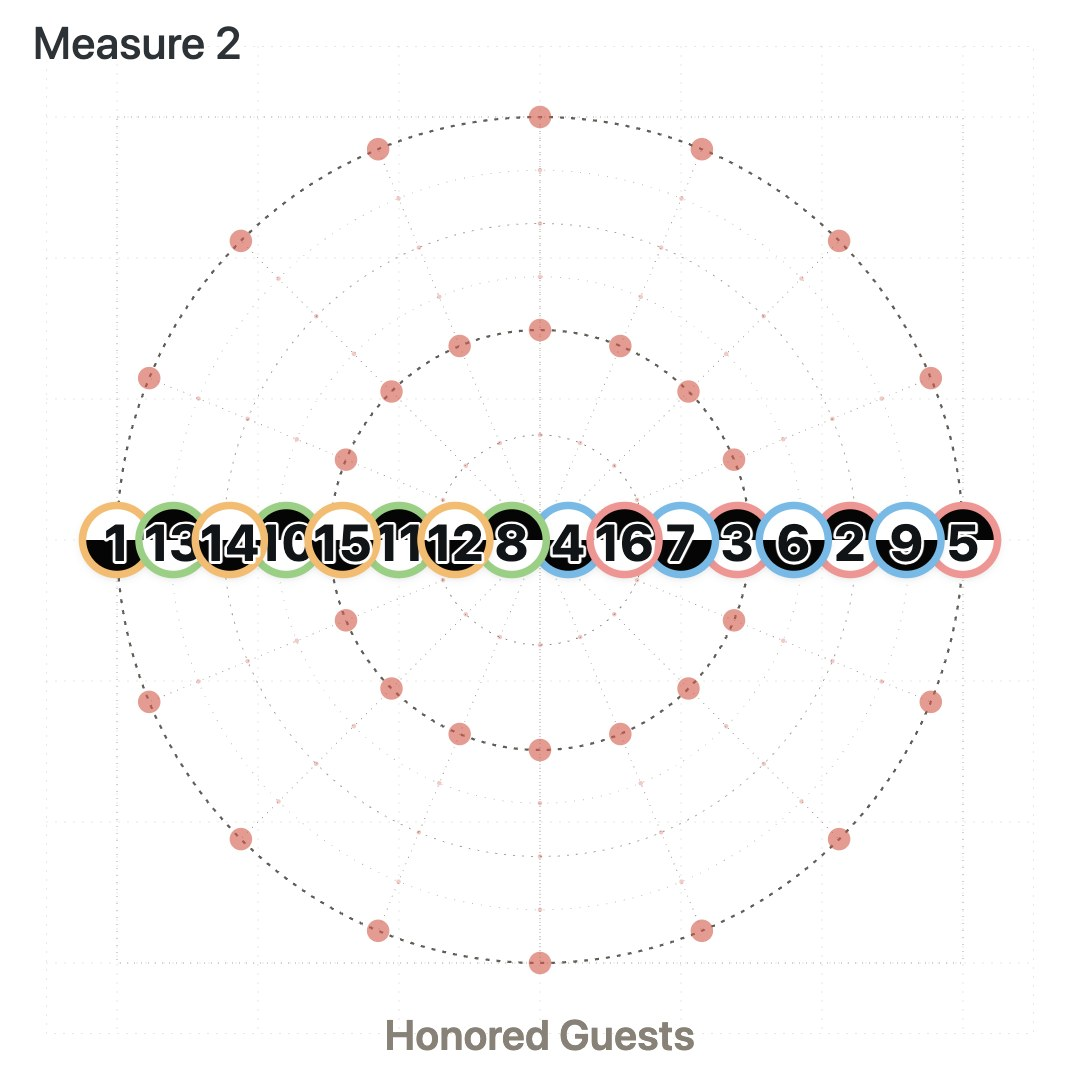
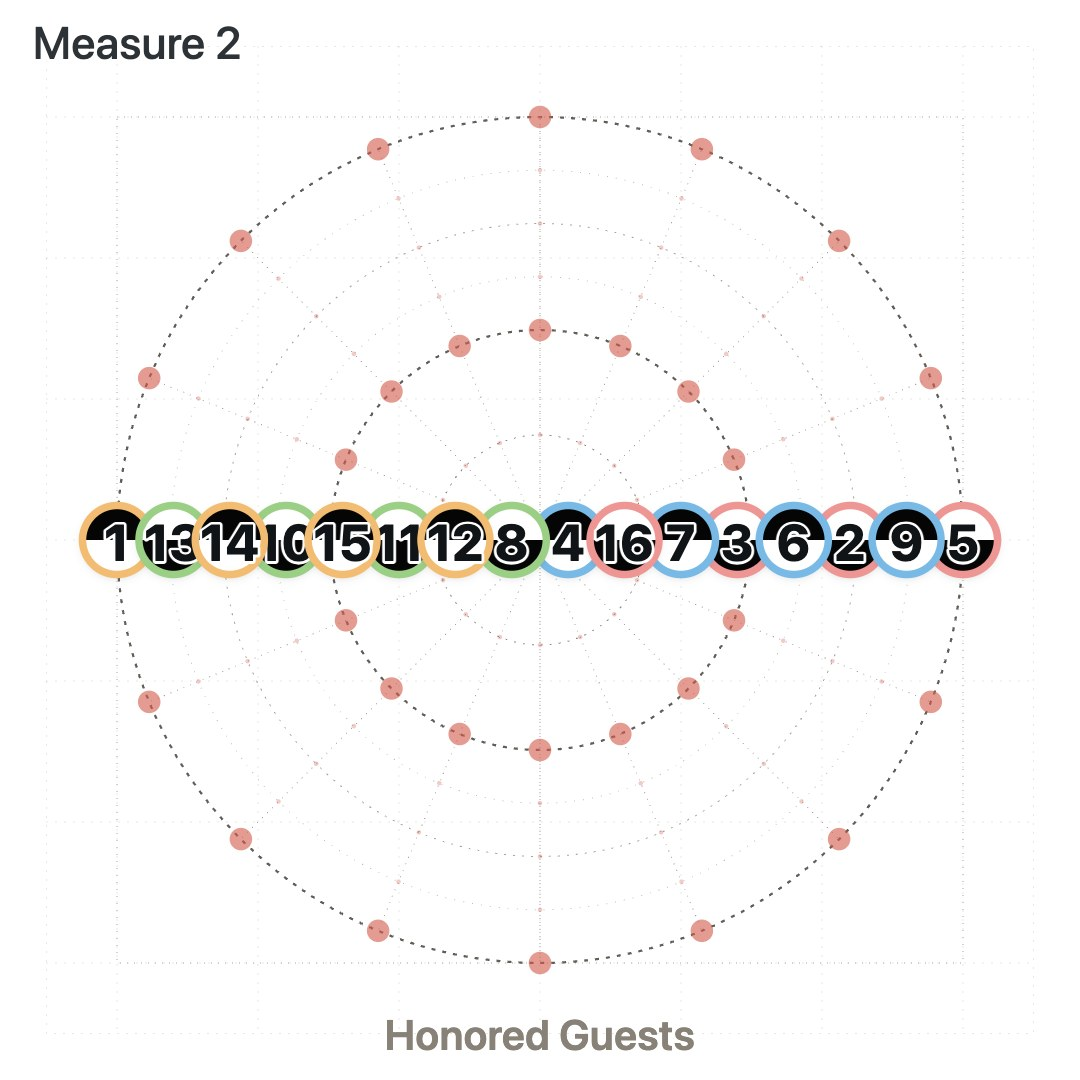
Waltz 14 Swirling Cascade: Measure 2 facings flipped

Changed region(s): [[0.0611, 0.4583, 0.9167, 0.55]]

diff --git a/index.html b/index.html
@@ -5046,7 +5046,7 @@
               line.items.forEach((item) => {
                 const front = byX.indexOf(item.number) % 2 === 0;
                 const left = item.x < CENTER.x;
-                item.facingMode = front ? "south" : "north";
+                item.facingMode = front ? "north" : "south"; // flipped (Ariel, 11/23)
                 item.groupColor = front ? (left ? "amber" : "blue") : (left ? "green" : "rose");
               });
               return named(line, swirl, "Measure 2");
